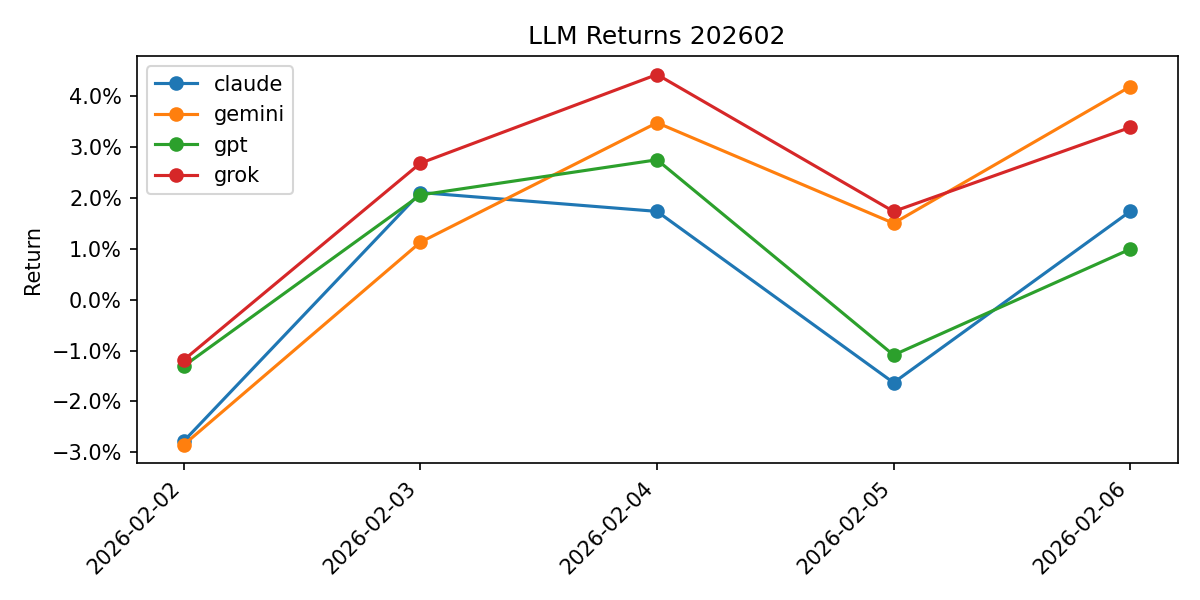
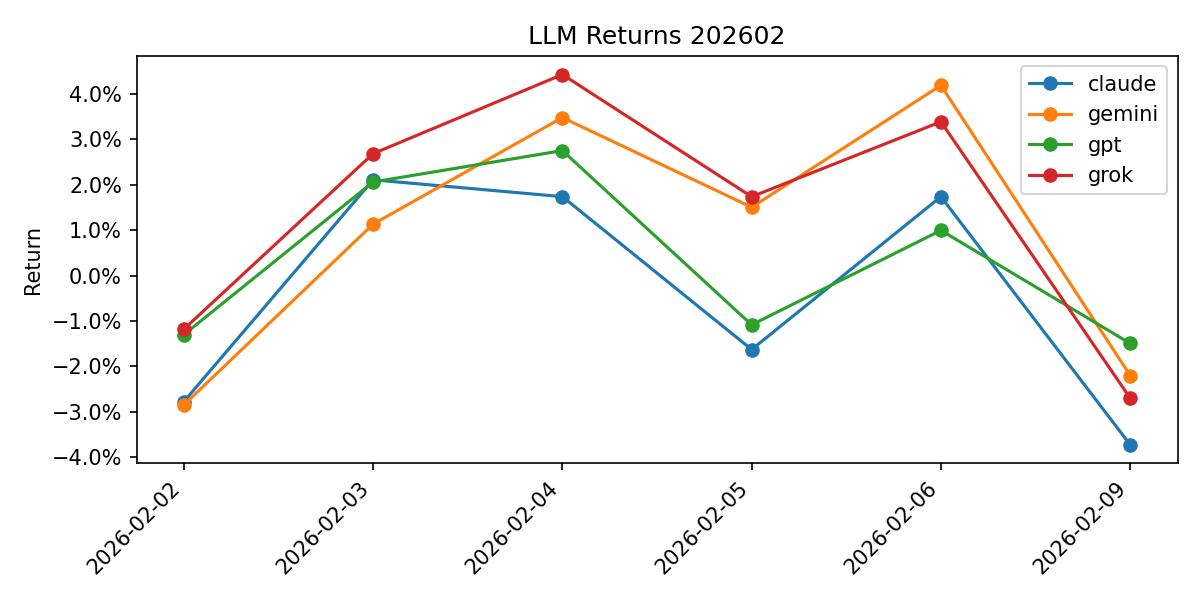
chore: add daily results 2026-02-09

diff --git a/reports/202602/summary.md b/reports/202602/summary.md
@@ -16,6 +16,7 @@
 | 2026-02-04 | 1.74% | 3.48% | 2.75% | 4.43% |
 | 2026-02-05 | -1.63% | 1.51% | -1.09% | 1.74% |
 | 2026-02-06 * | 1.74% | 4.19% | 1.00% | 3.39% |
+| 2026-02-09 | -3.73% | -2.20% | -1.50% | -2.70% |
 
 ![LLM monthly returns](summary.png)
 
@@ -31,3 +32,11 @@
 | 2026-02-02→2026-02-06 | gpt | 9984.T (SOFTBANK GROUP CORP) | ソフトバンクグループは米ハイテク株の動向やARM関連材料に連動しやすく、ボラティリティの高い銘柄であるため、1週間のリターン最大化ゲームにおいてイベント・ニュースによる短期上昇を狙いやすいと判断。 |
 | 2026-02-02→2026-02-06 | grok | 7011.T (MITSUBISHI HEAVY INDUSTRIES) | 衆院選自民党優勢で防衛関連株に買い。高市トレードのテーマ継続期待。 |
 | 2026-02-02→2026-02-06 | grok | 4186.T (TOKYO OHKA KOGYO CO) | 半導体薬品大手、直近値上がり率上位でモメンタム強く、AI需要で上昇継続。 |
+| 2026-02-09→2026-02-13 | claude | 8306.T (MITSUBISHI UFJ FINANCIAL GROUP) | 日銀利上げによる金利上昇環境で収益改善期待。2月8日衆院選での自民党勝利観測で高市トレードが継続し、銀行株にポジティブ。上場来高値更新中で配当増額も魅力。 |
+| 2026-02-09→2026-02-13 | claude | 6506.T (YASKAWA ELECTRIC CORP) | ソフトバンクとのフィジカルAI協業で注目度上昇。2026年の本命テーマ「フィジカルAI」で日本企業躍進期待。株価は協業発表後50%急騰し、通期業績も上方修正済み。 |
+| 2026-02-09→2026-02-13 | gemini | 8035.T (TOKYO ELECTRON) | 2月6日発表の決算で市場予想を大幅に上回る増益（EPSサプライズ+91%）を確認。加えて週末の米国市場でNVIDIA株やSOX指数が急騰しており、半導体セクターへの強力な追い風となる。 |
+| 2026-02-09→2026-02-13 | gemini | 9984.T (SOFTBANK GROUP CORP) | 週末の米国市場でAI・ハイテク株が急反発し、傘下のアーム株上昇が寄与する。衆院選での与党安定観測や、週内の決算発表（OpenAI関連の思惑含む）も株価を押し上げる要因。 |
+| 2026-02-09→2026-02-13 | gpt | 6857.T (ADVANTEST CORP) | 半導体試験装置大手であり、2月3日の日経平均急騰局面ではAI・半導体関連として主導株となるなど、直近もセクター物色の中心。NVIDIAやAI関連ニュースに連動しやすくボラティリティが高いことから、短期1週間のリターン最大化ゲームに適した銘柄と判断。2025年以降も生成AI投資の恩恵を受けやすいとの見方が多く、押し目後のリバウンド狙いも期待できる。 |
+| 2026-02-09→2026-02-13 | gpt | 8035.T (TOKYO ELECTRON) | ウェハ製造装置等を手掛ける日本を代表する半導体製造装置メーカーで、AI・データセンター投資拡大の恩恵を受けやすい。2026年2月上旬時点でも半導体・AI関連が日経平均高値更新を牽引しており、同セクターへの資金流入継続が期待される。指数寄与度も高く、市場全体のモメンタムが維持されれば1週間スパンでも値幅取りが狙えると判断。 |
+| 2026-02-09→2026-02-13 | grok | 6941.T (YAMAICHI ELECTRONICS) | 第3四半期好決算と通期業績上方修正・配当増額で週間上昇率トップ、モメンタム継続 |
+| 2026-02-09→2026-02-13 | grok | 1726.T (BR. HOLDINGS CORPORATION) | 横河ブリッジHDによるTOB発表でストップ高、買収プレミアム期待 |

diff --git a/data/result/result-2026-02-09.md b/data/result/result-2026-02-09.md
@@ -1,0 +1,25 @@
+# Daily Result 2026-02-09
+
+## Models
+
+| LLM | Model |
+| --- | --- |
+| claude | claude-sonnet-4-5-20250929 |
+| gemini | gemini-3-pro-preview |
+| gpt | gpt-5.1 |
+| grok | grok-4-1-fast-reasoning |
+
+| LLM | Symbol | Buy(Open) | Close(today) | Return |
+| --- | --- | --- | --- | --- |
+| claude | 8306.T (MITSUBISHI UFJ FINANCIAL GROUP) | 3050.00 | 2957.50 | -3.03% |
+|  | 6506.T (YASKAWA ELECTRIC CORP) | 5490.00 | 5247.00 | -4.43% |
+|  | Avg |  |  | -3.73% |
+| gemini | 8035.T (TOKYO ELECTRON) | 41580.00 | 40600.00 | -2.36% |
+|  | 9984.T (SOFTBANK GROUP CORP) | 4340.00 | 4251.00 | -2.05% |
+|  | Avg |  |  | -2.20% |
+| gpt | 6857.T (ADVANTEST CORP) | 27530.00 | 27355.00 | -0.64% |
+|  | 8035.T (TOKYO ELECTRON) | 41580.00 | 40600.00 | -2.36% |
+|  | Avg |  |  | -1.50% |
+| grok | 6941.T (YAMAICHI ELECTRONICS) | 9200.00 | 8720.00 | -5.22% |
+|  | 1726.T (BR. HOLDINGS CORPORATION) | 530.00 | 529.00 | -0.19% |
+|  | Avg |  |  | -2.70% |
